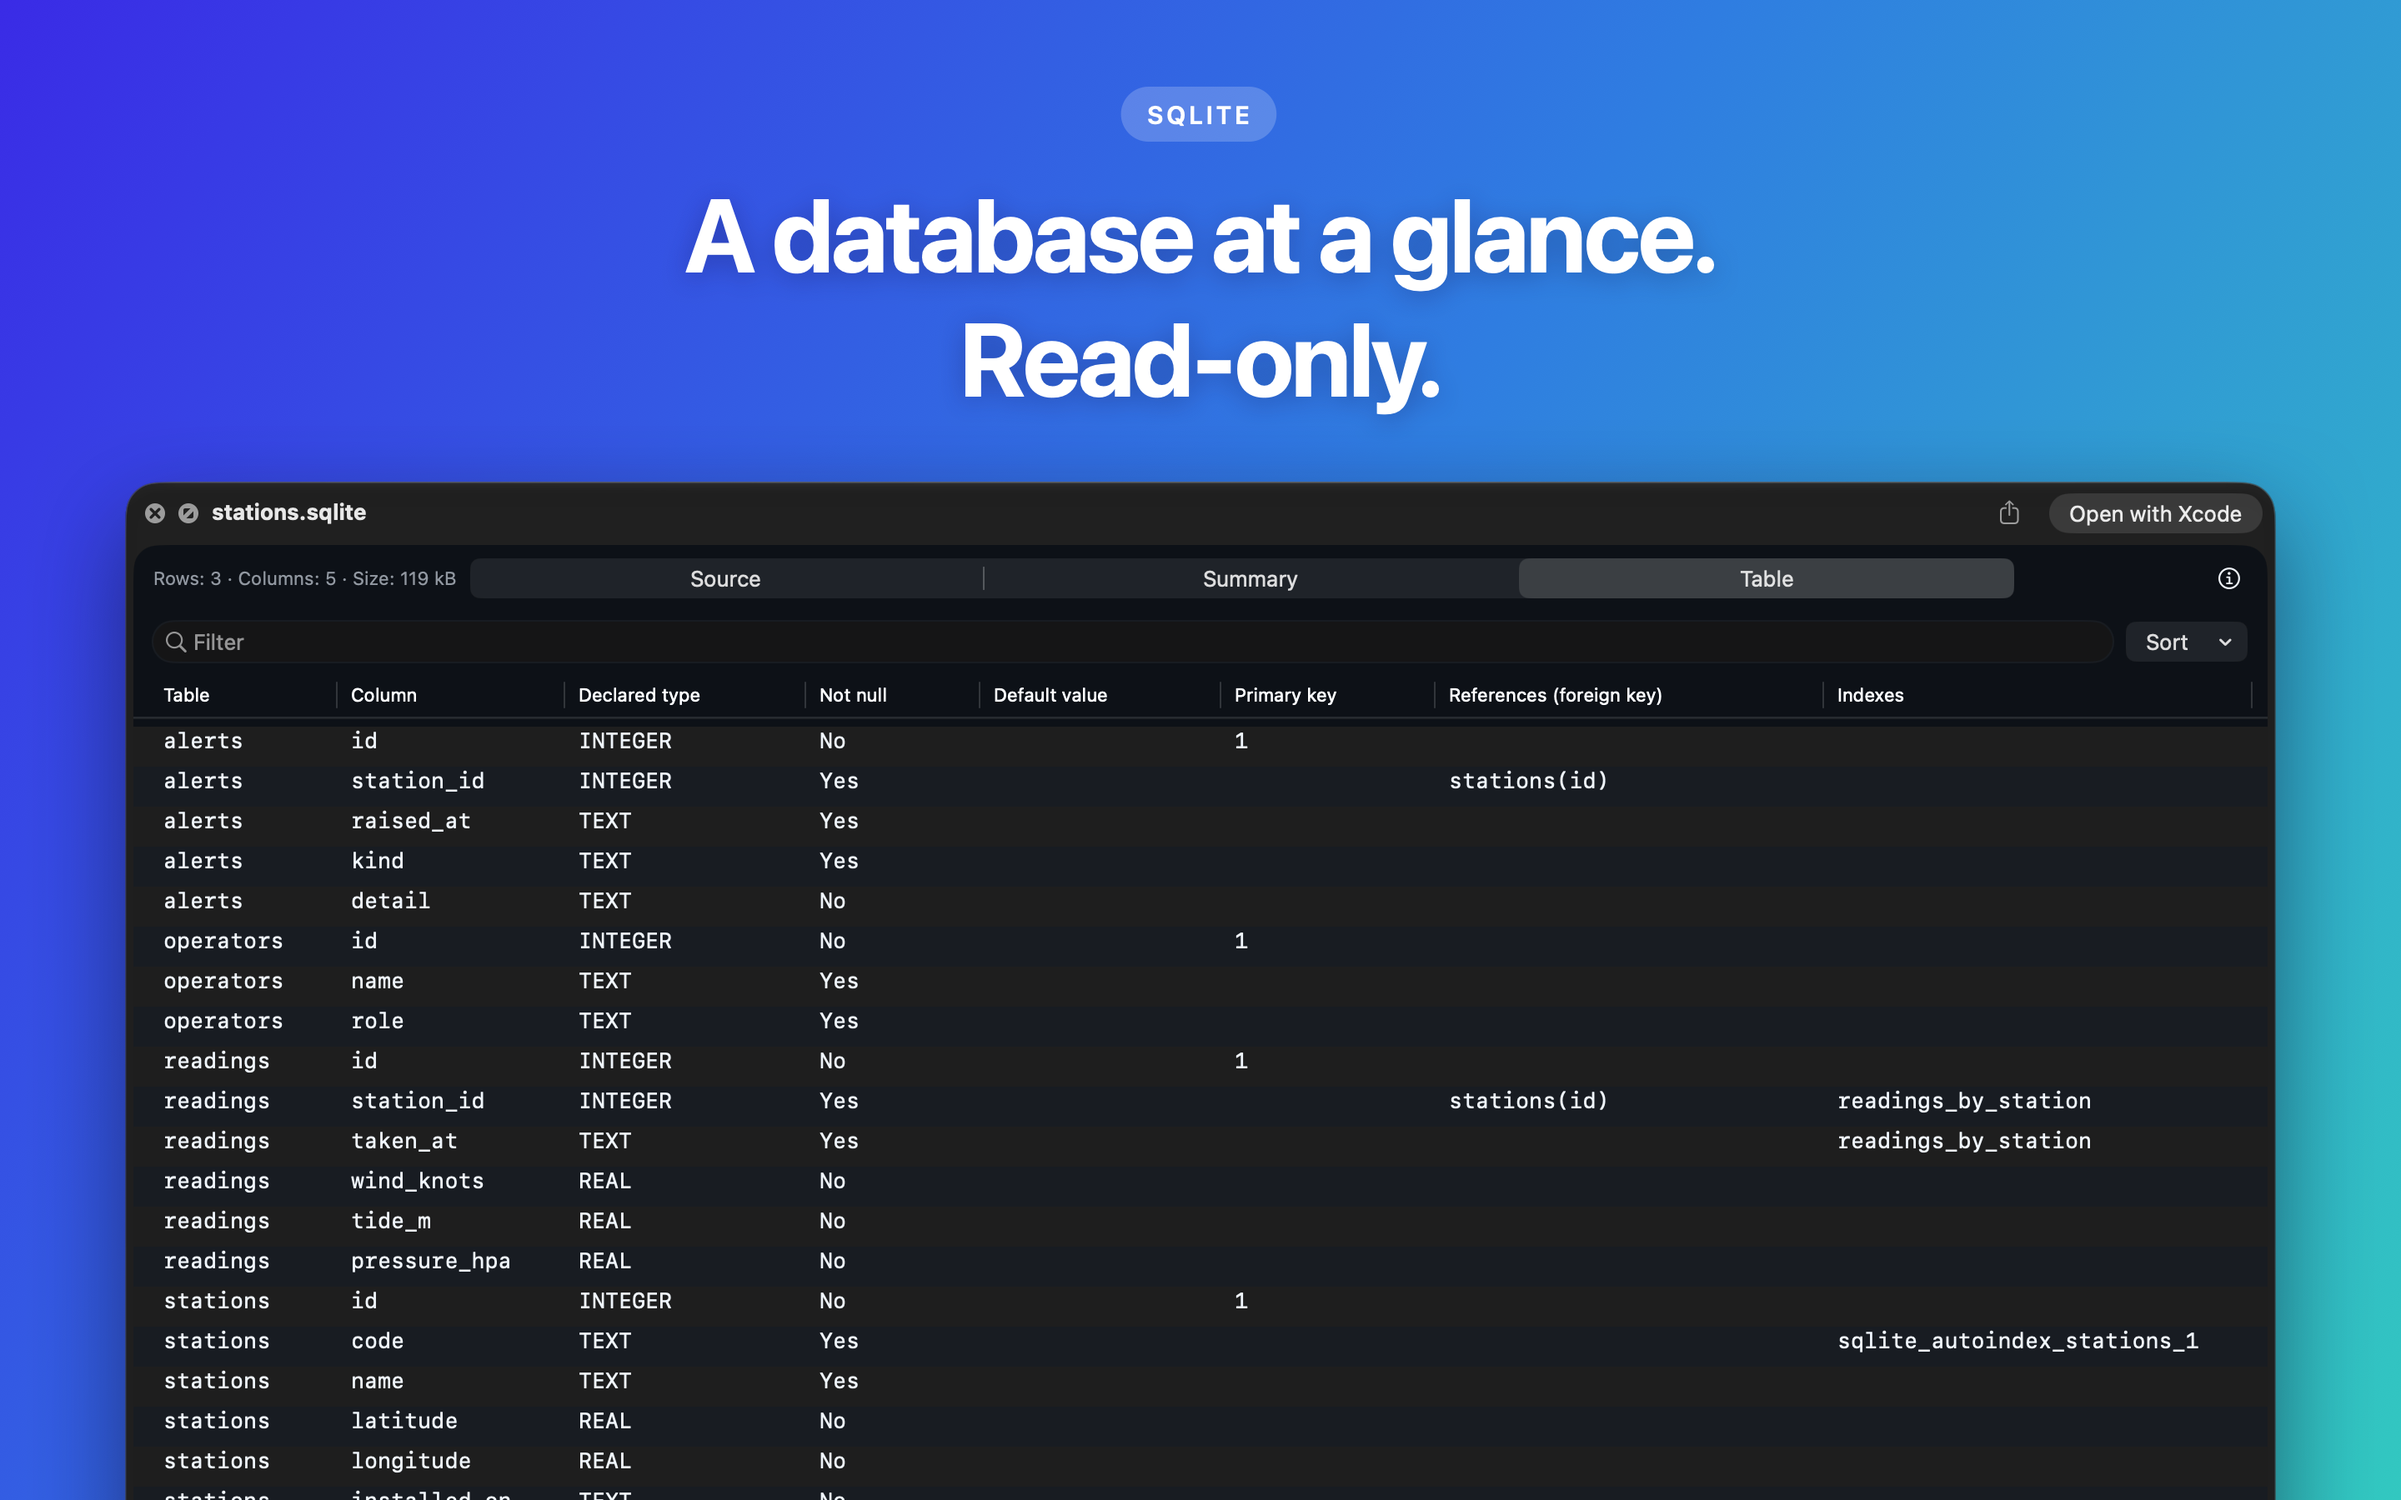
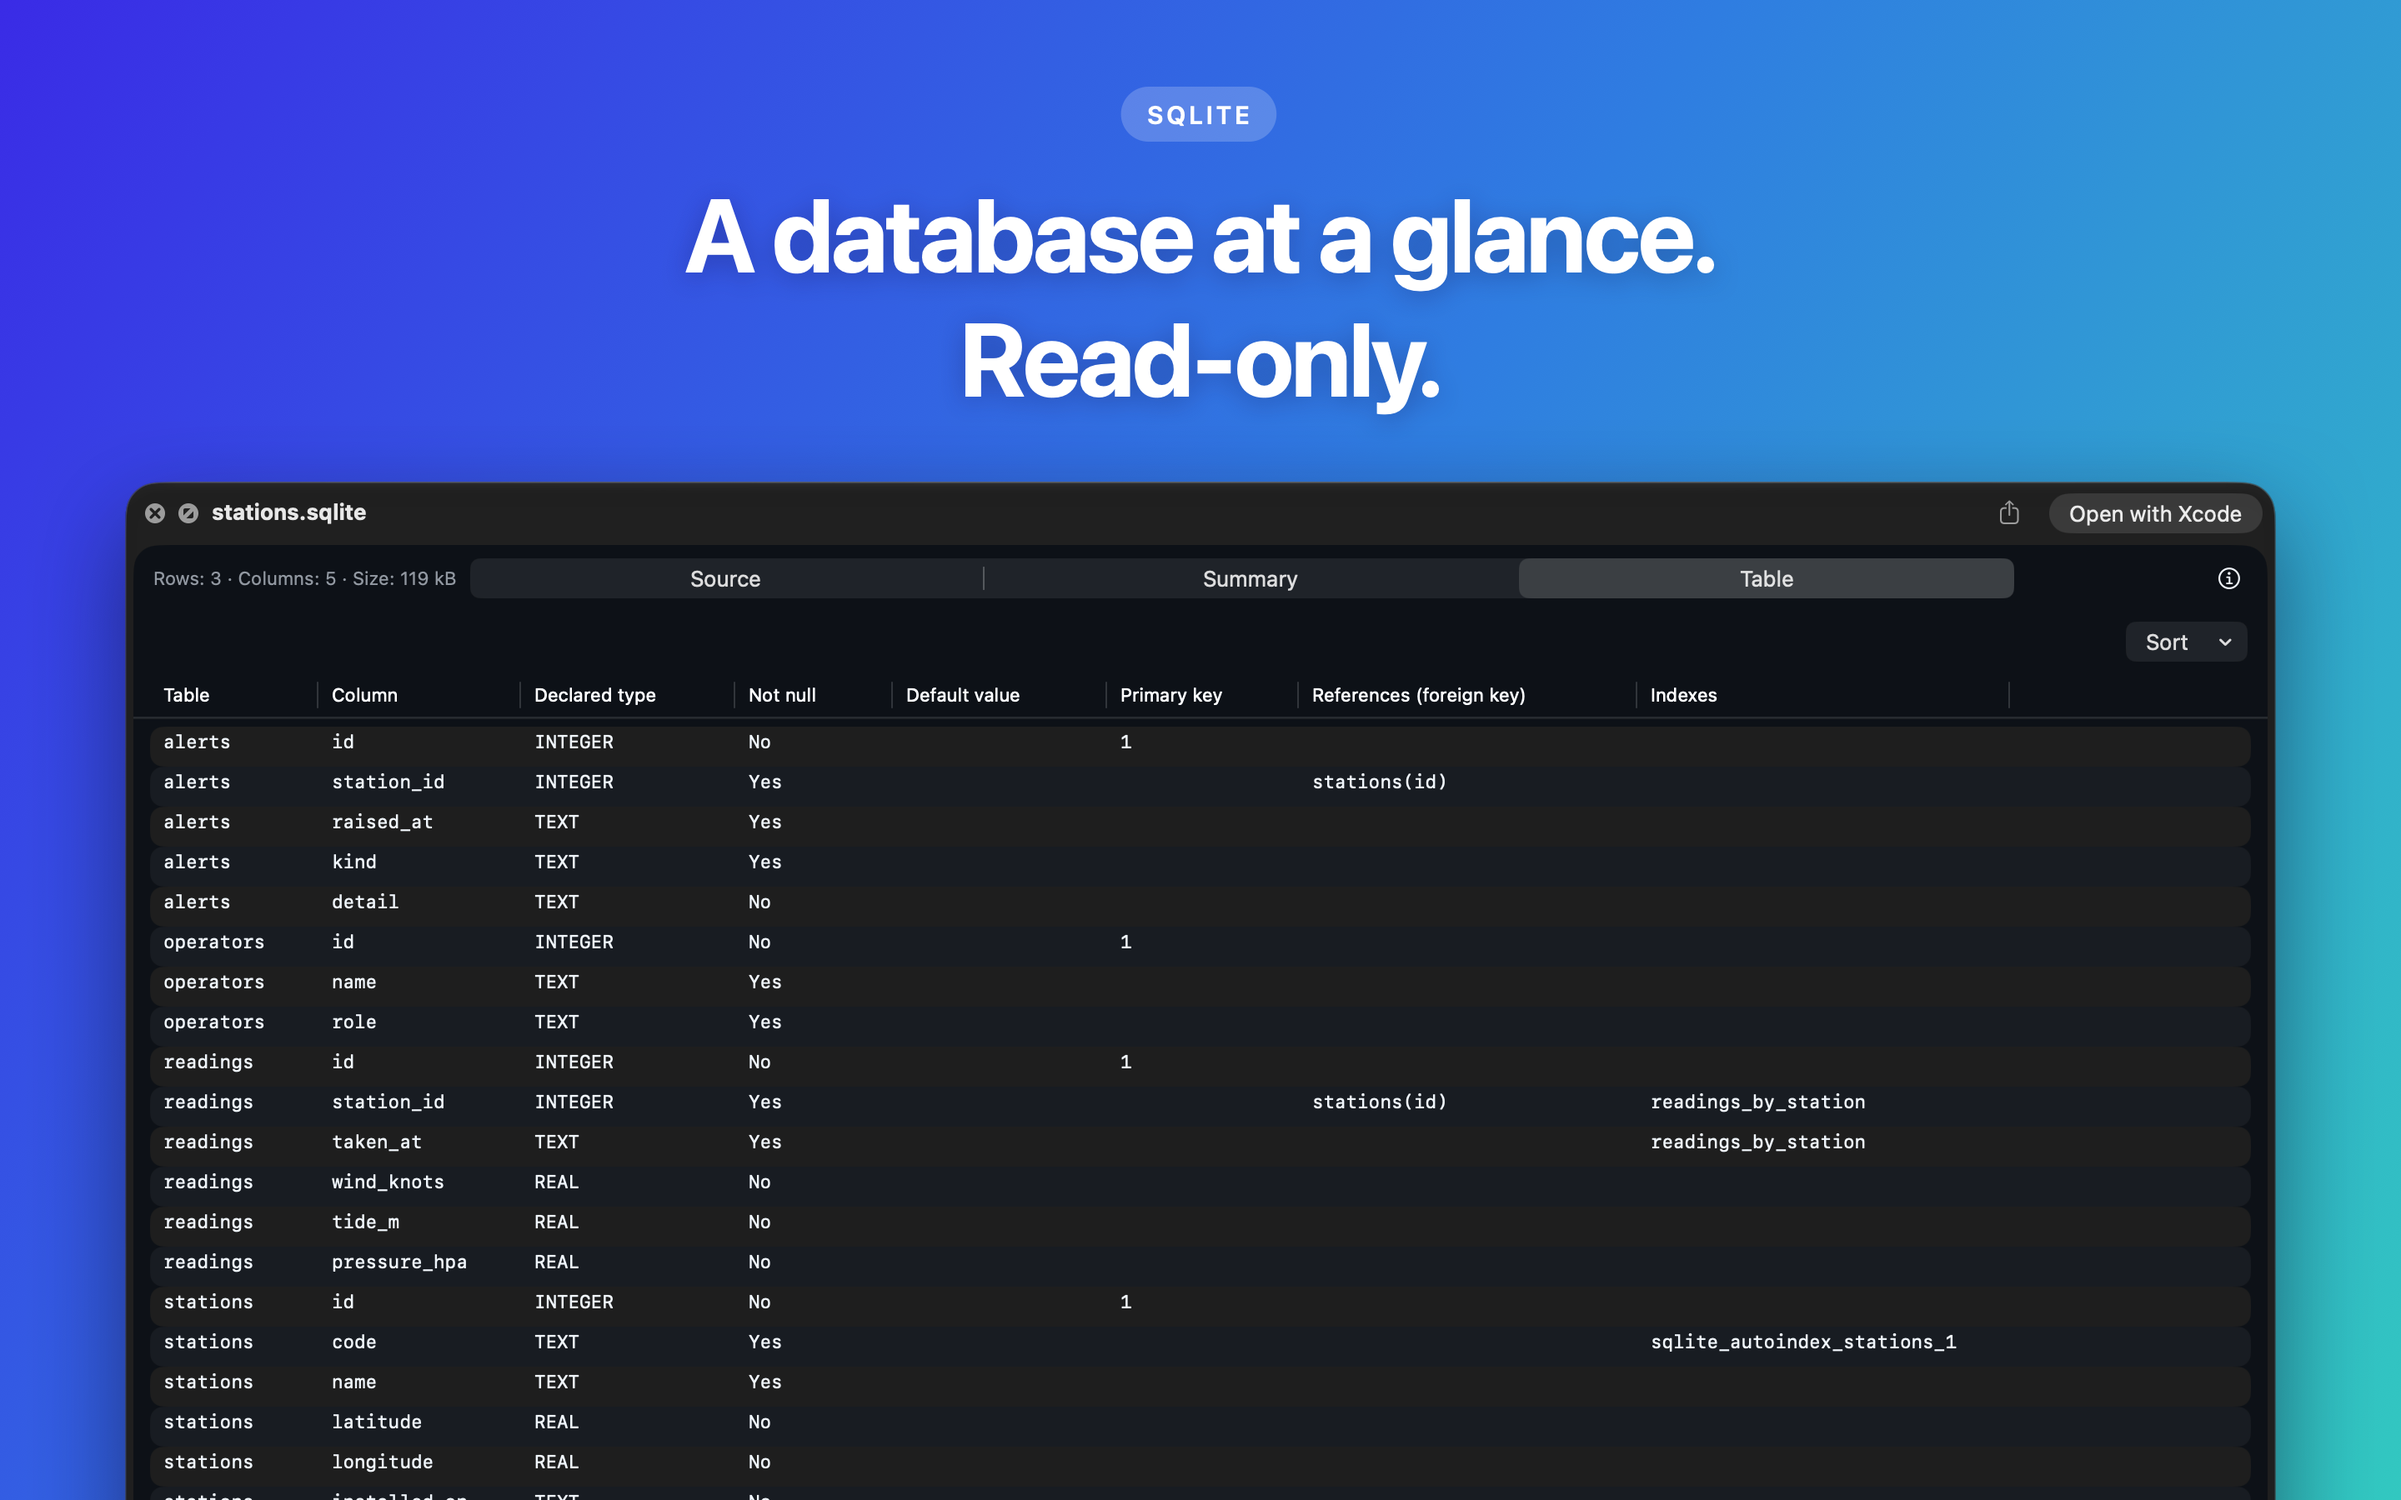
Retake the hero and SQLite store screenshots from the installed build 6

diff --git a/docs/release/store-listing/screenshots.md b/docs/release/store-listing/screenshots.md
@@ -6,7 +6,7 @@ build and have not been uploaded. A second set in the website's dark style with 
 another session under `.build/store-screenshots/website-theater/`; it was not chosen.
 **Amended 2026-10-13 ([decision 028](../../decisions/028-no-cad-in-version-1.md)): version 1.0 ships without STEP and IGES.** The made image `07-models.png` shows a STEP model and says STEP and IGES are off until switched on, so it cannot be used; it is retaken with a mesh model (for example the generated STL) and without that line. `08-file-types.png` reads "76 of 76 enabled" (observed in the image on 2026-10-13) and the build 3 catalog has 74 types, so it is retaken from build 3. The listing's screenshot plan carries the same open item. The two app preview videos under `app-preview/` were not inspected on 2026-10-13; check them for a STEP or IGES scene and for a type count before use. Everything below is history of what was made and planned on 2026-10-10 and 2026-10-11 unless marked.
 
-**Amended 2026-10-17 ([rejection-risk review](../../reviews/2026-10-17-app-store-rejection-risk.md), finding 5).** Six screenshots are live in App Store Connect for 1.1.0 (build 5), submitted that day. Two of them show what build 5 no longer has: the hero screenshot (first in the store order, from `01-press-space.png`) shows a Filter field in the Outline view and `winch-gear.step` in Finder's file list, and the SQLite screenshot (third in the store order, from `04-database.png`) shows a Filter field. Build 5 ships no typed filter in Finder previews (PR 9, merged 2026-10-15) and no STEP support. Both must be recaptured from the owner's signed build 5 before the next submission, with no Filter field and no CAD file visible in Finder; replacing screenshots needs the version out of review. The hero screenshot was recaptured at 18:09 on 2026-10-17 from the installed TestFlight-signed build 5 (`/Applications/SpacePane.app`, 1.1.0 (5)) on a Retina display mode, with the same scripts (`capture.sh` reduced to scene 1, then `compose_store_screenshot.swift`); the demo folder was generated without `winch-gear.step`, and `settings.json` carries the same per-file Xcode binding as the notebook and the database so the panel button reads "Open with Xcode". The new `01-press-space.png` (2880×1800, no alpha) shows the Outline view with no Filter field and a Finder list without a CAD file; it replaces the previous file here and is the one to upload. The SQLite screenshot is not recaptured: on this Mac `.sqlite` resolves to a dynamic type until a build with the corrected declarations is installed ([uti-resolution-2026-10-17](../../validation/uti-resolution-2026-10-17.md)), so the owner drops the third store screenshot for now and retakes `04-database.png` from an installed build 6. The Theme screenshot shows 13 tiles (Standard appears in both the light and dark lists) against "12 color schemes"; twelve distinct schemes exist, so a caption or recapture avoids the question but none is required.
+**Amended 2026-10-17 ([rejection-risk review](../../reviews/2026-10-17-app-store-rejection-risk.md), finding 5).** Six screenshots are live in App Store Connect for 1.1.0 (build 5), submitted that day. Two of them show what build 5 no longer has: the hero screenshot (first in the store order, from `01-press-space.png`) shows a Filter field in the Outline view and `winch-gear.step` in Finder's file list, and the SQLite screenshot (third in the store order, from `04-database.png`) shows a Filter field. Build 5 ships no typed filter in Finder previews (PR 9, merged 2026-10-15) and no STEP support. Both must be recaptured from the owner's signed build 5 before the next submission, with no Filter field and no CAD file visible in Finder; replacing screenshots needs the version out of review. The hero screenshot was recaptured at 18:09 on 2026-10-17 from the installed TestFlight-signed build 5 (`/Applications/SpacePane.app`, 1.1.0 (5)) on a Retina display mode, with the same scripts (`capture.sh` reduced to scene 1, then `compose_store_screenshot.swift`); the demo folder was generated without `winch-gear.step`, and `settings.json` carries the same per-file Xcode binding as the notebook and the database so the panel button reads "Open with Xcode". The new `01-press-space.png` (2880×1800, no alpha) shows the Outline view with no Filter field and a Finder list without a CAD file; it replaces the previous file here and is the one to upload. Later the same day (18:27), with the development-signed 1.1.0 (6) archive installed in `/Applications` (the TestFlight build 5 removed by the owner; see [uti-resolution-2026-10-17](../../validation/uti-resolution-2026-10-17.md), "Observed after installing build 6"), both `01-press-space.png` and `04-database.png` were retaken on the Retina mode: the hero again from build 6, and the SQLite scene for the first time since build 5, because `.sqlite` now resolves to `org.sqlite.sqlite` and Finder routes it to SpacePane. The SQLite image shows the Table view with Source, Summary and Table modes and no Filter field. Both are 2880×1800 without alpha and are the files to upload; the earlier 1.0 captures of these two scenes are replaced. The Theme screenshot shows 13 tiles (Standard appears in both the light and dark lists) against "12 color schemes"; twelve distinct schemes exist, so a caption or recapture avoids the question but none is required.
 
 The sections under "Earlier plan" were written on 2026-10-10 and are kept for their rules; where they differ
 from the next section, the next section is what was done.

diff --git a/CHANGELOGS.md b/CHANGELOGS.md
@@ -22,6 +22,7 @@ Lead session: the three fix branches of the day (`build6-release-fixes-2026-10-1
 
 - Screenshot: `docs/release/store-listing/screenshots/01-press-space.png` retaken from the installed TestFlight-signed build 5 at Retina scale (Finder window 2000×1240, panel 2080×1440 captures; 2880×1800 opaque composite). No Filter field, no `.step` file, "Open with Xcode". The SQLite screenshot stays out of the store set until an installed build 6 routes `.sqlite` (see the validation record of the same day). Details in [screenshots.md](docs/release/store-listing/screenshots.md).
 - Validation: the gates named in the pull request were run on the merged tree; see the pull request description for the results.
+- Screenshots (18:27): `01-press-space.png` and `04-database.png` retaken from the installed build 6 on the Retina mode (Finder window 2000×1240, panels 2080×1440 and 2580×1560; 2880×1800 opaque composites). The SQLite scene is the first since build 5 that Finder routes to SpacePane.
 - Observation (Mac, 18:21): build 6 installed in `/Applications` makes `.sqlite` and `.rar` resolve to their declared types, and Finder's Quick Look on `stations.sqlite` shows SpacePane's Table view. Recorded in `docs/validation/host-matrix.json` (host `mac-build6-2026-10-17`) and in the type-resolution record.
 
 ## 2026-10-17 — Draft languages pruned from the nested resource bundle; privacy-manifest reasons tied to code (findings 16 and 21)
